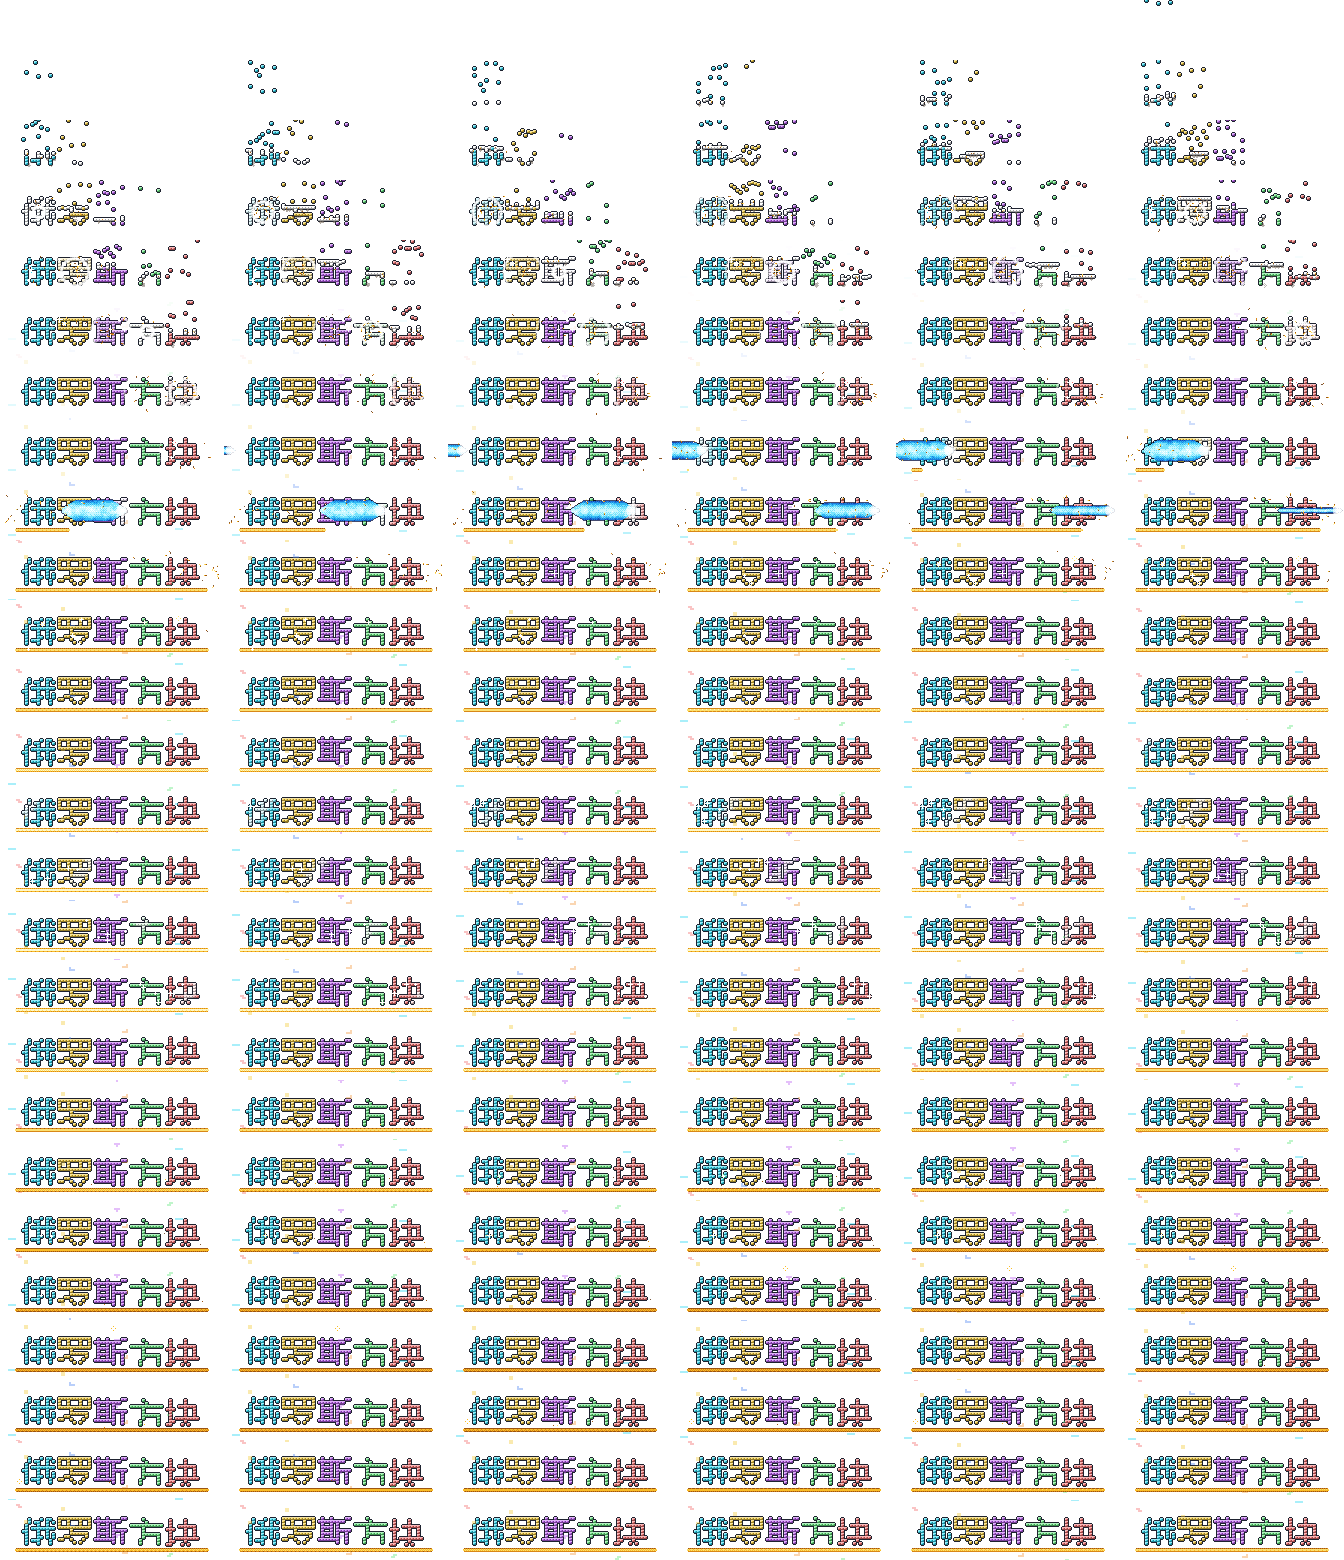
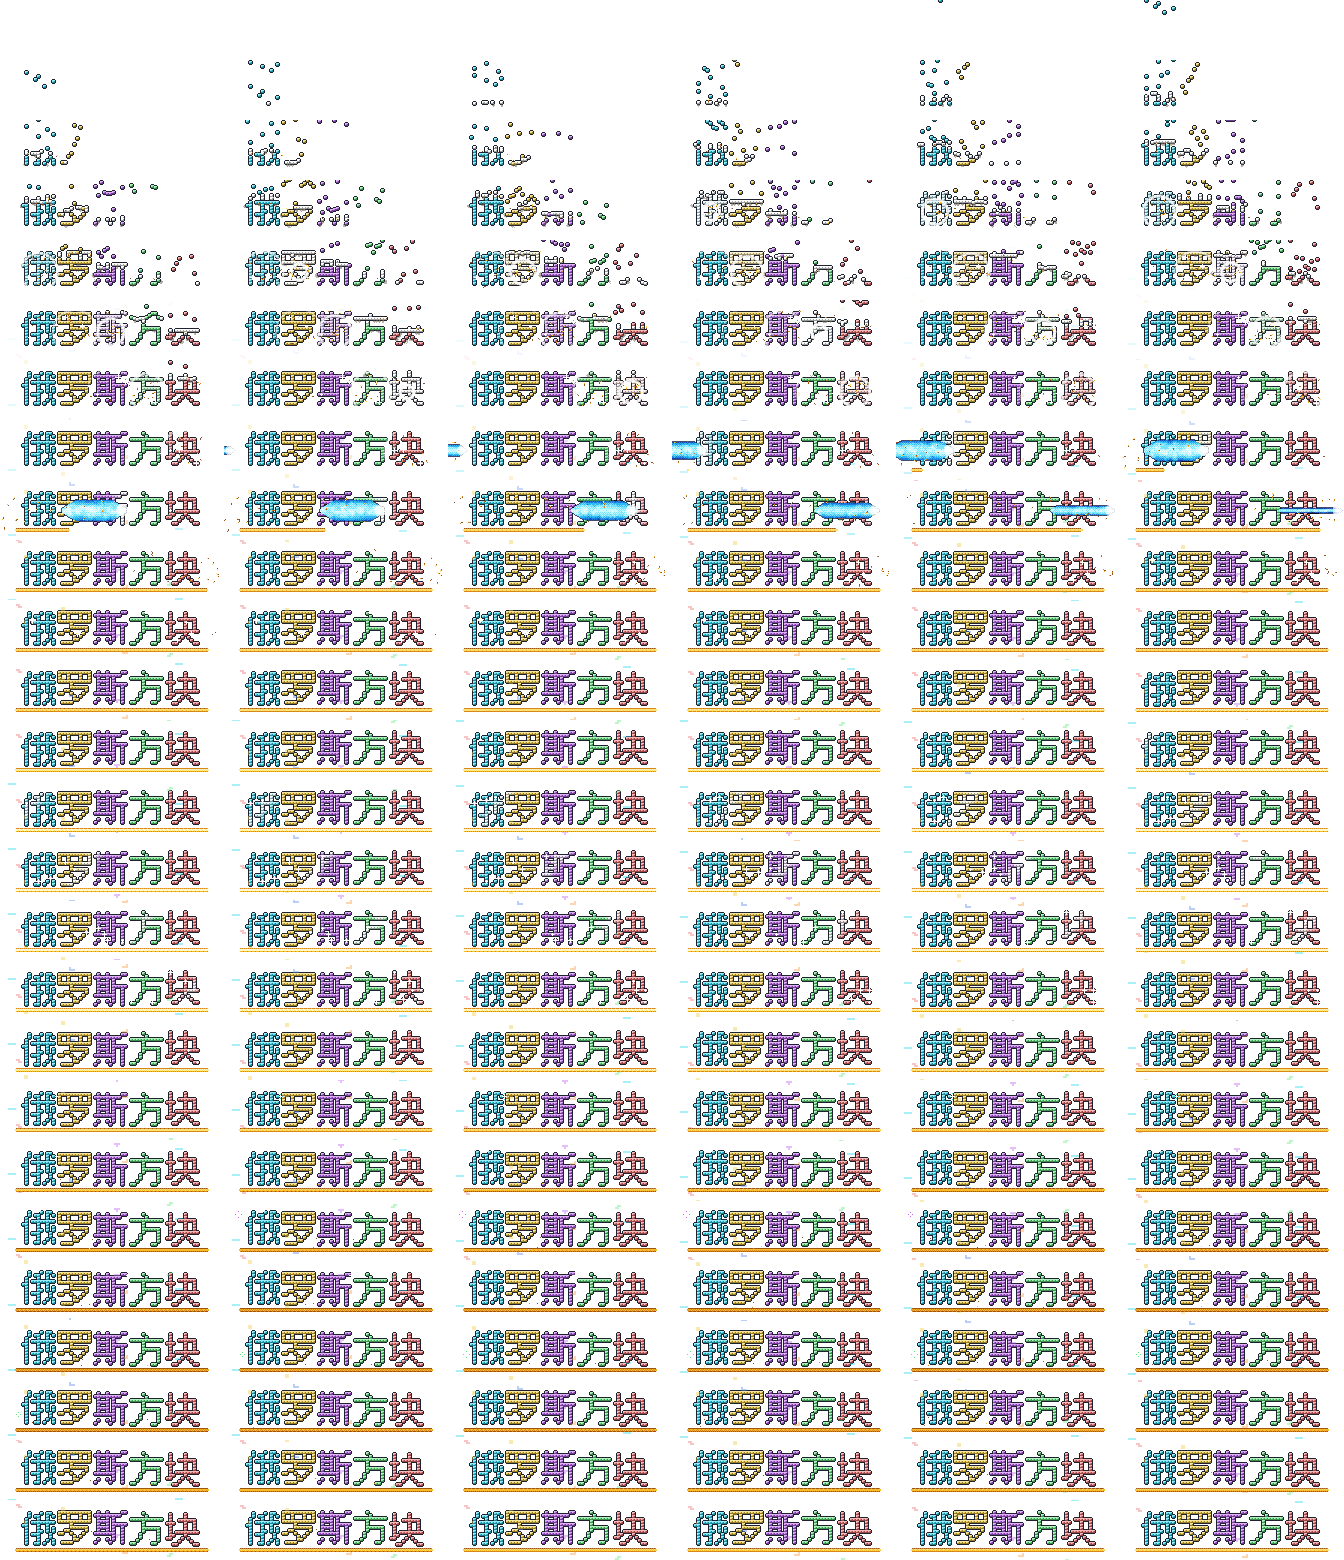
Complete title glyphs, animated backdrop from the resource pack
- The title's characters were cut off at the bottom (drawn into a cell the
  font overflows); they are cut to the rows they really use now.
- Backdrop: a seamless night-sky loop rendered by tools/fx_studio, a pack
  entry of its own, behind the menus and both game scenes.

diff --git a/tools/fx_studio/effects.js b/tools/fx_studio/effects.js
@@ -1,5 +1,6 @@
 // The effects of the "Pixel FX" resource pack, one per game event, and the
-// game's animated title (the last one, kind 'title': it loops).
+// two loops of the default pack: the backdrop behind everything and the
+// animated title (kinds 'backdrop' and 'title').
 //
 // Sizes are art pixels: a board cell is CELL (11) of them, so a sheet drawn at
 // scale 2 lines up with the game's 22-pixel cells. Every effect is a timeline
@@ -538,6 +539,141 @@
 		},
 	});
 
+	const MINOS = [
+		[[0, 0], [1, 0], [2, 0], [3, 0]], [[0, 0], [1, 0], [0, 1], [1, 1]], [[0, 0], [1, 0], [2, 0], [1, 1]],
+		[[1, 0], [2, 0], [0, 1], [1, 1]], [[0, 0], [1, 0], [1, 1], [2, 1]], [[0, 0], [0, 1], [1, 1], [2, 1]], [[2, 0], [0, 1], [1, 1], [2, 1]],
+	];
+	const mixColor = (a, b, k) => [lerp(a[0], b[0], k), lerp(a[1], b[1], k), lerp(a[2], b[2], k)];
+	const BLACK = [0, 0, 0];
+
+	// ------------------------------------------------------------- backdrop
+	// The picture behind the menus and the game: a night sky over a skyline of
+	// stacked blocks. It is one seamless loop - everything that moves is a
+	// function of the loop's phase and comes back to where it started: the
+	// aurora drifts on a circle through its noise, every star twinkles a whole
+	// number of times, the tetrominoes of three depths fall a whole number of
+	// screens, the windows blink in step. Two shooting stars are born, burn
+	// their trail and die inside the loop. Kept dark and calm on purpose: the
+	// boards and the menus are read on top of it.
+	const SKY = hexes(['#060814', '#090d1e', '#0d142c', '#121c3c', '#17254c', '#1c2f5c']);
+	const NIGHT = { w: 192, h: 108, loop: 6, fps: 12, cell: 6 };
+	FX.RAMPS.aurora = ['#16306a30', '#1c448448', '#22609c5c', '#2c84b068', '#44b0c070', '#7cdcd478'];
+	FX.RAMPS.streak = ['#3c68c880', '#78a8f0c0', '#c8e0ff', '#ffffff'];
+	const BAYER4 = [0, 8, 2, 10, 12, 4, 14, 6, 3, 11, 1, 9, 15, 7, 13, 5].map((v) => (v + 0.5) / 16);
+
+	define({
+		name: 'backdrop',
+		kind: 'backdrop',
+		title: 'Backdrop',
+		note: 'The background of the whole game, one seamless six-second loop: a dithered night sky, an aurora drifting through it, stars that twinkle, tetrominoes falling at three depths, two shooting stars with burning trails, and a skyline of stacked blocks whose windows blink.',
+		w: NIGHT.w, h: NIGHT.h, fps: NIGHT.fps, frames: NIGHT.loop * NIGHT.fps, loopFrom: 0, anchor: 'center', seed: 211,
+		phases: [{ name: 'first shooting star', at: 0 }, { name: 'calm', at: 2.2 }, { name: 'second shooting star', at: 3.2 }, { name: 'calm, back to the start', at: 5 }],
+		setup(sim) {
+			sim.layer('sky', { kind: 'color' });
+			sim.layer('aurora', { ramp: 'aurora' });
+			sim.layer('stars', { kind: 'color' });
+			sim.layer('far', { kind: 'color' });
+			sim.layer('trail', { ramp: 'streak', persist: 0.9 });
+			sim.layer('shooting', { ramp: 'streak', dither: 0 });
+			sim.layer('mid', { kind: 'color' });
+			sim.layer('near', { kind: 'color' });
+			sim.layer('skyline', { kind: 'color' });
+			// The cast is fixed once: only the phase moves it.
+			const r = makeRng(77);
+			const S = sim.state;
+			S.stars = [];
+			for (let i = 0; i < 90; i++) S.stars.push({ x: r.int(0, NIGHT.w - 1), y: r.int(0, 84), times: r.int(1, 3), phase: r.angle(), big: r() < 0.12, tint: r.pick(ICE) });
+			S.minos = [];
+			for (const [depth, count, cell, falls] of [[0, 9, 2, 1], [1, 6, 3, 1], [2, 3, 5, 2]]) {
+				for (let i = 0; i < count; i++) S.minos.push({ depth, cell, falls, shape: r.int(0, 6), x: r.int(4, NIGHT.w - cell * 4 - 4), start: r.range(0, 1), turn: r.int(0, 3) });
+			}
+			S.towers = [];
+			for (let col = 0; col < NIGHT.w / NIGHT.cell; col++) {
+				const height = Math.max(1, Math.round(1 + 2.4 * FX.fbm(col * 0.35, 4.2, 9.1) * 2 + (r() < 0.2 ? 1 : 0)));
+				const lights = [];
+				for (let row = 0; row < height; row++) if (r() < 0.3) lights.push({ row, times: r.int(1, 2), phase: r.angle() });
+				S.towers.push({ height, lights });
+			}
+		},
+		update(sim, t) {
+			const L = sim.byName, r = sim.rng;
+			for (const [key, at, x, y] of [['one', 0.5, 20, 6], ['two', 3.3, 96, 2]]) {
+				if (!sim.once(key, at)) continue;
+				sim.emit({ layer: L.shooting, x, y, vx: 96, vy: 42, life: 0.85, size: 0.5, heat: [1, 0.8], trail: L.trail, trailHeat: [1, 0.7],
+					onDeath(p, s) { sparks(s, L.shooting, p.x, p.y, 8, { speed: [10, 45], life: [0.2, 0.45], streak: 0 }); } });
+			}
+			// The trail thins into drifting dust.
+			if ((sim.during(0.6, 1.5) || sim.during(3.4, 4.3)) && sim.ticks % 6 === 0) {
+				const head = sim.parts.find((p) => p.trail);
+				if (head) sim.emit({ layer: L.shooting, x: head.x - r.range(4, 22), y: head.y - r.range(2, 10), vx: r.range(-6, 6), vy: r.range(4, 14), life: r.range(0.3, 0.6), size: 0.5, heat: [0.7, 0] });
+			}
+		},
+		draw(sim, t) {
+			const L = sim.byName, S = sim.state;
+			const p = ((t / NIGHT.loop) % 1 + 1) % 1;
+			const w = NIGHT.w, h = NIGHT.h;
+			// Sky: dithered bands, darkest on top.
+			for (let y = 0; y < h; y++) {
+				for (let x = 0; x < w; x++) {
+					const band = (y / h) * (SKY.length - 1) + (BAYER4[(y & 3) * 4 + (x & 3)] - 0.5);
+					L.sky.px(x, y, SKY[Math.max(0, Math.min(SKY.length - 1, Math.round(band)))]);
+				}
+			}
+			// Aurora: a ribbon of noise, read along a circle so it returns.
+			const ox = Math.cos(p * TAU) * 0.7, oy = Math.sin(p * TAU) * 0.7;
+			for (let y = 6; y < 78; y++) {
+				const ribbon = Math.sin(((y - 6) / 72) * Math.PI);
+				for (let x = 0; x < w; x++) {
+					const wave = FX.fbm(x * 0.022 + ox, y * 0.05 + oy + Math.sin(x * 0.05 + p * TAU) * 0.25, 3.7);
+					const heat = (wave - 0.44) * 2.6 * ribbon;
+					if (heat > 0) L.aurora.plot(x, y, heat);
+				}
+			}
+			for (const star of S.stars) {
+				const glow = 0.5 + 0.5 * Math.sin(p * TAU * star.times + star.phase);
+				if (glow < 0.22) continue;
+				L.stars.px(star.x, star.y, glow > 0.7 ? WHITE : star.tint, 0.35 + 0.65 * glow);
+				if (star.big && glow > 0.82) {
+					for (const [dx, dy] of [[1, 0], [-1, 0], [0, 1], [0, -1]]) L.stars.px(star.x + dx, star.y + dy, star.tint, 0.6);
+				}
+			}
+			// Tetrominoes: far ones small and faint, near ones large with a bevel.
+			const span = h + 40;
+			for (const mino of S.minos) {
+				const layer = [L.far, L.mid, L.near][mino.depth];
+				const tint = mixColor(PIECES[mino.shape], SKY[3], [0.74, 0.64, 0.54][mino.depth]);
+				const light = mixColor(tint, WHITE, 0.25), dark = mixColor(tint, BLACK, 0.4);
+				const y0 = Math.round(((mino.start + p * mino.falls) % 1) * span) - 24;
+				for (let [cx, cy] of MINOS[mino.shape]) {
+					for (let q = 0; q < mino.turn; q++) [cx, cy] = [2 - cy, cx];
+					for (let j = 0; j < mino.cell; j++) {
+						for (let i = 0; i < mino.cell; i++) {
+							const edge = mino.depth === 0 ? tint : j === 0 || i === 0 ? light : j === mino.cell - 1 || i === mino.cell - 1 ? dark : tint;
+							layer.px(mino.x + cx * mino.cell + i, y0 + cy * mino.cell + j, edge);
+						}
+					}
+				}
+			}
+			// Skyline: stacked blocks along the bottom, some windows lit.
+			const wall = hexes(['#080b1a', '#0c1126', '#141c3a'])
+			S.towers.forEach((tower, col) => {
+				for (let row = 0; row < tower.height; row++) {
+					const x0 = col * NIGHT.cell, y0 = h - (row + 1) * NIGHT.cell;
+					for (let j = 0; j < NIGHT.cell; j++) {
+						for (let i = 0; i < NIGHT.cell; i++) L.skyline.px(x0 + i, y0 + j, j === 0 || i === 0 ? wall[2] : j === NIGHT.cell - 1 || i === NIGHT.cell - 1 ? wall[0] : wall[1]);
+					}
+				}
+				for (const light of tower.lights) {
+					const on = Math.sin(p * TAU * light.times + light.phase);
+					if (on < -0.2) continue;
+					const x0 = col * NIGHT.cell + 2, y0 = h - (light.row + 1) * NIGHT.cell + 2;
+					const lamp = on > 0.5 ? [0.98, 0.82, 0.42] : [0.6, 0.44, 0.2];
+					for (let j = 0; j < 2; j++) for (let i = 0; i < 2; i++) L.skyline.px(x0 + i, y0 + j, lamp);
+				}
+			});
+		},
+	});
+
 	// ---------------------------------------------------------------- title
 	// The game's title, built out of falling blocks and then kept alive. Unlike
 	// the board effects it does not end: an intro plays once (blocks rain down
@@ -550,13 +686,6 @@
 	const GLYPHS = FX.titleGlyphs || require('./title_glyphs.js');
 	const TITLE = { w: 224, h: 60, block: 3, x0: 22, y0: 9, intro: 2.2, loop: 3.0, fall: 0.26, drop: 70, sweep: [1.45, 1.8] };
 	const TITLE_COLORS = hexes(['#33d9f2', '#f2cc40', '#bf66f2', '#66e680', '#f27373']);
-	const MINOS = [
-		[[0, 0], [1, 0], [2, 0], [3, 0]], [[0, 0], [1, 0], [0, 1], [1, 1]], [[0, 0], [1, 0], [2, 0], [1, 1]],
-		[[1, 0], [2, 0], [0, 1], [1, 1]], [[0, 0], [1, 0], [1, 1], [2, 1]], [[0, 0], [0, 1], [1, 1], [2, 1]], [[2, 0], [0, 1], [1, 1], [2, 1]],
-	];
-	const mixColor = (a, b, k) => [lerp(a[0], b[0], k), lerp(a[1], b[1], k), lerp(a[2], b[2], k)];
-	const BLACK = [0, 0, 0];
-
 	// Every lit pixel of the title: where its block ends up and when it lands.
 	function titleBlocks() {
 		const blocks = [];
@@ -716,7 +845,7 @@
 	});
 
 	for (const def of defs) {
-		def.fps = 30;
+		def.fps = def.fps || 30;
 		def.scale = 2;
 		FX.effects[def.name] = def;
 	}

diff --git a/tools/fx_studio/export.js b/tools/fx_studio/export.js
@@ -70,25 +70,28 @@ function icon(def, frames) {
 	return png(size, size, out);
 }
 
-// The title belongs to the default pack (every pack may bring its own): the
-// sheet goes there and its "title" entry in pack.json is rewritten in place.
-// Exporting anywhere else just writes the sheet next to the effects.
-function writeTitle(target, def, made, stats) {
-	const entry = { sheet: 'title.png', frame: [def.w, def.h], frames: def.frames, fps: def.fps, scale: def.scale, loop_from: def.loopFrom, glow: 0.3 };
-	const line = '"title": ' + JSON.stringify(entry).replace(/,"/g, ', "').replace(/":/g, '": ');
+// The loops (the title and the backdrop) belong to the default pack - every
+// pack may bring its own: the sheet goes there and its entry in pack.json is
+// rewritten in place. Exporting anywhere else just writes the sheet next to
+// the effects.
+function writeLoop(target, def, made, stats) {
+	const key = def.kind, file = key + '.png';
+	const entry = { sheet: file, frame: [def.w, def.h], frames: def.frames, fps: def.fps };
+	if (key === 'title') Object.assign(entry, { scale: def.scale, loop_from: def.loopFrom, glow: 0.3 });
+	const line = '"' + key + '": ' + JSON.stringify(entry).replace(/,"/g, ', "').replace(/":/g, '": ');
 	const home = path.join(target, '..', 'default');
 	const manifest = path.join(home, 'pack.json');
 	let where = target;
 	if (path.basename(target) === 'pixelfx' && fs.existsSync(manifest)) {
 		where = home;
 		let text = fs.readFileSync(manifest, 'utf8');
-		const old = /\n\t"title": \{.*\}(,?)\n/;
+		const old = new RegExp('\\n\\t"' + key + '": \\{.*\\}(,?)\\n');
 		text = old.test(text) ? text.replace(old, '\n\t' + line + '$1\n') : text.replace('\n\t"fonts": {', '\n\t' + line + ',\n\t"fonts": {');
 		fs.writeFileSync(manifest, text);
 	}
-	fs.writeFileSync(path.join(where, 'title.png'), png(made.width, made.height, made.data));
-	console.log('%s  %dx%d  %d frames, loops from %d  sheet %dx%d  particles born %d, peak %d  -> %s',
-		def.name.padEnd(14), def.w, def.h, def.frames, def.loopFrom, made.width, made.height, stats.born, stats.peak, where);
+	fs.writeFileSync(path.join(where, file), png(made.width, made.height, made.data));
+	console.log('%s  %dx%d  %d frames @ %d fps, loops from %d  sheet %dx%d  particles born %d, peak %d  -> %s',
+		def.name.padEnd(14), def.w, def.h, def.frames, def.fps, def.loopFrom, made.width, made.height, stats.born, stats.peak, where);
 }
 
 function main() {
@@ -99,8 +102,8 @@ function main() {
 	for (const def of FX.effectList) {
 		const { frames, stats } = FX.renderFrames(def);
 		const made = sheet(def, frames);
-		if (def.kind === 'title') {
-			writeTitle(target, def, made, stats);
+		if (def.kind === 'title' || def.kind === 'backdrop') {
+			writeLoop(target, def, made, stats);
 			continue;
 		}
 		fs.writeFileSync(path.join(target, 'fx', def.name + '.png'), png(made.width, made.height, made.data));

diff --git a/tools/fx_studio/title_glyphs.js b/tools/fx_studio/title_glyphs.js
@@ -1,6 +1,6 @@
 // Generated by make_title_glyphs.py - the title as 12-pixel bitmaps.
 (function (root) {
-	const data = {"text": "俄罗斯方块", "size": 12, "glyphs": [["............", "............", "............", "..#...#.##..", "..#.##..#.#.", ".#...#..#...", ".#.########.", "##...#..#...", ".#...#..#.#.", ".#...##.#.#.", ".#.###...#..", ".#...#...#.."], ["............", "............", "............", "###########.", "#..#...#..#.", "#..#...#..#.", "###########.", "....#.......", "....######..", "..##.....#..", "##..#...#...", ".....#.#...."], ["............", "............", "............", ".#..#....##.", "#########...", ".#..#.#.....", ".####.#.....", ".#..#.#####.", ".####.#..#..", ".#..#.#..#..", "#######..#..", "......#..#.."], ["............", "............", "............", "....#.......", ".....#......", "###########.", "....#.......", "....#.......", "....######..", "....#....#..", "...#.....#..", "...#.....#.."], ["............", "............", "............", ".#....#.....", ".#....#.....", ".#..######..", "###...#..#..", ".#....#..#..", ".#....#..#..", ".#.########.", ".##...#.....", "##...#.#...."]]};
+	const data = {"text": "俄罗斯方块", "size": 12, "glyphs": [["............", "..#...#.##..", "..#.##..#.#.", ".#...#..#...", ".#.########.", "##...#..#...", ".#...#..#.#.", ".#...##.#.#.", ".#.###...#..", ".#...#...#..", ".#...#..#.#.", ".#..##.#..#."], ["............", "###########.", "#..#...#..#.", "#..#...#..#.", "###########.", "....#.......", "....######..", "..##.....#..", "##..#...#...", ".....#.#....", ".....##.....", ".####......."], ["............", ".#..#....##.", "#########...", ".#..#.#.....", ".####.#.....", ".#..#.#####.", ".####.#..#..", ".#..#.#..#..", "#######..#..", "......#..#..", ".#..#.#..#..", "#....#...#.."], ["............", "....#.......", ".....#......", "###########.", "....#.......", "....#.......", "....######..", "....#....#..", "...#.....#..", "...#.....#..", "..#......#..", "##.....##..."], ["............", ".#....#.....", ".#....#.....", ".#..######..", "###...#..#..", ".#....#..#..", ".#....#..#..", ".#.########.", ".##...#.....", "##...#.#....", "....#...#...", "..##.....##."]]};
 	if (root.PixelFX) root.PixelFX.titleGlyphs = data;
 	if (typeof module !== 'undefined' && module.exports) module.exports = data;
 })(typeof globalThis !== 'undefined' ? globalThis : this);

diff --git a/tools/fx_studio/index.html b/tools/fx_studio/index.html
@@ -208,7 +208,7 @@
 	function draw() {
 		const def = state.def, zoom = Number($('zoom').value);
 		// The title is shown on its own, as on the menu; the board effects on the board.
-		const alone = def.kind === 'title';
+		const alone = def.kind === 'title' || def.kind === 'backdrop';
 		const stageW = alone ? def.w + 24 : STAGE_W, stageH = alone ? def.h + 48 : STAGE_H;
 		if (stage.width !== stageW * zoom || stage.height !== stageH * zoom) {
 			stage.width = stageW * zoom;
@@ -222,7 +222,7 @@
 			const sky = ctx.createLinearGradient(0, 0, 0, stage.height);
 			sky.addColorStop(0, '#2c3a5e');
 			sky.addColorStop(1, '#1a2238');
-			ctx.fillStyle = $('board').checked ? sky : '#05070c';
+			ctx.fillStyle = $('board').checked && def.kind === 'title' ? sky : '#05070c';
 			ctx.fillRect(0, 0, stage.width, stage.height);
 		} else if ($('board').checked) ctx.drawImage(boardCanvas, 0, 0, stage.width, stage.height);
 		else { ctx.fillStyle = '#05070c'; ctx.fillRect(0, 0, stage.width, stage.height); }
@@ -285,7 +285,7 @@
 		$('note').textContent = def.note;
 		$('m-frame').textContent = def.w + ' x ' + def.h;
 		$('m-frames').textContent = def.frames + ' @ ' + def.fps + ' fps';
-		$('m-anchor').textContent = def.loopFrom ? 'loops from frame ' + (def.loopFrom + 1) : def.anchor;
+		$('m-anchor').textContent = def.loopFrom !== undefined ? 'loops from frame ' + (def.loopFrom + 1) : def.anchor;
 		$('m-game').textContent = (def.w * def.scale) + ' x ' + (def.h * def.scale) + ' px';
 		const total = def.frames / def.fps;
 		const phases = $('phases');
@@ -301,6 +301,7 @@
 		});
 		$('ticks').style.setProperty('--tick', (100 / def.frames) + '%');
 		$('loopmark').hidden = !def.loopFrom;
+		$('zoom').value = def.kind === 'backdrop' ? '4' : $('zoom').value;
 		if (def.loopFrom) $('loopmark').style.left = (def.loopFrom / def.frames * 100) + '%';
 		bake();
 		buildLayers();
@@ -397,7 +398,7 @@
 		if (state.playing) {
 			const total = state.def.frames / state.def.fps;
 			state.clock += dt * Number($('speed').value);
-			if (state.def.loopFrom && state.loop) {
+			if (state.def.loopFrom !== undefined && state.loop) {
 				// A looping effect goes round from its loop frame, as in the game.
 				if (state.clock >= total) state.clock = state.def.loopFrom / state.def.fps + (state.clock - total);
 			} else if (state.clock >= total + 0.35) {

diff --git a/tools/fx_studio/fx_core.js b/tools/fx_studio/fx_core.js
@@ -258,7 +258,7 @@
 				}
 			} else if (this.persist) {
 				// Trails fade faster at the very end, so the timeline closes empty.
-				const keep = this.sim.duration - this.sim.t < 0.12 ? this.persist * 0.6 : this.persist;
+				const keep = this.sim.duration - this.sim.t < Math.max(0.12, 3 / this.sim.fps) ? this.persist * 0.6 : this.persist;
 				for (let i = 0; i < this.f.length; i++) this.f[i] = this.f[i] < 0.03 ? 0 : this.f[i] * keep;
 			}
 		}
@@ -407,7 +407,8 @@
 			// effect that loops (def.loopFrom) is as clean where its loop starts.
 			const loopStart = (this.def.loopFrom || 0) / this.fps;
 			const limit = this.t < loopStart - 3 * TICK ? loopStart : this.duration;
-			p.life = Math.min(p.life || 0.5, limit - this.t - 3 * TICK);
+			// (A frame of slack at the usual 30 fps; a slow loop needs a whole frame of its own.)
+			p.life = Math.min(p.life || 0.5, limit - this.t - Math.max(3 * TICK, 1.5 / this.fps));
 			if (p.life <= 0) return p;
 			this.parts.push(p);
 			this.stats.born++;

diff --git a/tools/fx_studio/make_title_glyphs.py b/tools/fx_studio/make_title_glyphs.py
@@ -19,14 +19,27 @@ FONT = os.path.join(HERE, "..", "..", "assets", "fonts", "fusion-pixel-12px-prop
 
 def main():
     font = ImageFont.truetype(FONT, SIZE)
-    glyphs = []
+    # Drawn with room to spare, then cut to the rows the characters really use:
+    # the font sits a few pixels down from where the text is placed.
+    canvas = SIZE * 2
+    images = []
+    top, bottom = canvas, 0
     for char in TEXT:
-        image = Image.new("L", (SIZE, SIZE), 0)
+        image = Image.new("L", (canvas, canvas), 0)
         ImageDraw.Draw(image).text((0, 0), char, fill=255, font=font)
-        rows = ["".join("#" if image.getpixel((x, y)) >= 128 else "." for x in range(SIZE)) for y in range(SIZE)]
+        box = image.getbbox()
+        top, bottom = min(top, box[1]), max(bottom, box[3])
+        images.append(image)
+    if bottom - top > SIZE:
+        raise SystemExit("the characters are taller than %d pixels" % SIZE)
+    # Bottom-aligned in the SIZE-row cell.
+    first = bottom - SIZE
+    glyphs = []
+    for char, image in zip(TEXT, images):
+        rows = ["".join("#" if 0 <= y and image.getpixel((x, y)) >= 128 else "." for x in range(SIZE)) for y in range(first, bottom)]
         glyphs.append(rows)
         print(char)
-        print("\n".join(rows))
+        print(chr(10).join(rows))
     data = {"text": TEXT, "size": SIZE, "glyphs": glyphs}
     with open(os.path.join(HERE, "title_glyphs.js"), "w", encoding="utf-8", newline="\n") as out:
         out.write("// Generated by make_title_glyphs.py - the title as 12-pixel bitmaps.\n")

diff --git a/packs/README.md b/packs/README.md
@@ -239,6 +239,21 @@ pack without a title falls back to the next pack's, ending at the default
 pack's 俄罗斯方块, which is rendered by `tools/fx_studio` (the `title`
 effect; its characters come from `make_title_glyphs.py`).
 
+### Backdrop
+
+The background of the menus and the game can be an animation as well:
+
+```json
+"backdrop": {"sheet": "backdrop.png", "frame": [192, 108], "frames": 72, "fps": 12}
+```
+
+All frames are one loop (the last must lead back into the first). It is
+drawn unfiltered and scaled up to cover the window, so a small sheet is
+enough: 192 x 108 is a sixth of the 1152 x 648 window. A pack without a
+backdrop uses the next pack's; with none at all the still `background`
+texture shows. The default pack's night sky is the `backdrop` effect of
+`tools/fx_studio`.
+
 `packs/pixelfx/` is a pack made only of effects. Its sheets are rendered by
 `tools/fx_studio`: open `tools/fx_studio/index.html` in a browser to play,
 scrub and take apart every effect (timeline phases, layers, particle counts),

diff --git a/README.md b/README.md
@@ -67,7 +67,7 @@ or resources: `--headless --editor --quit`.
 
 | Tool | Makes |
 |---|---|
-| `tools/fx_studio/` | the Pixel FX pack and the animated title: `index.html` is the effect studio, `node tools/fx_studio/export.js` writes the sheets |
+| `tools/fx_studio/` | the Pixel FX pack, the animated title and the animated backdrop: `index.html` is the effect studio, `node tools/fx_studio/export.js` writes the sheets |
 | `tools/make_coldwar_bgm.py` | the six BGM tracks (numpy, scipy, ffmpeg) |
 | `tools/make_default_sfx.py`, `make_default_blocks.py` | the default pack's sounds and block atlas |
 | `tools/build_default_layouts.gd` | the default pack's screen layouts (`--headless --script`) |
